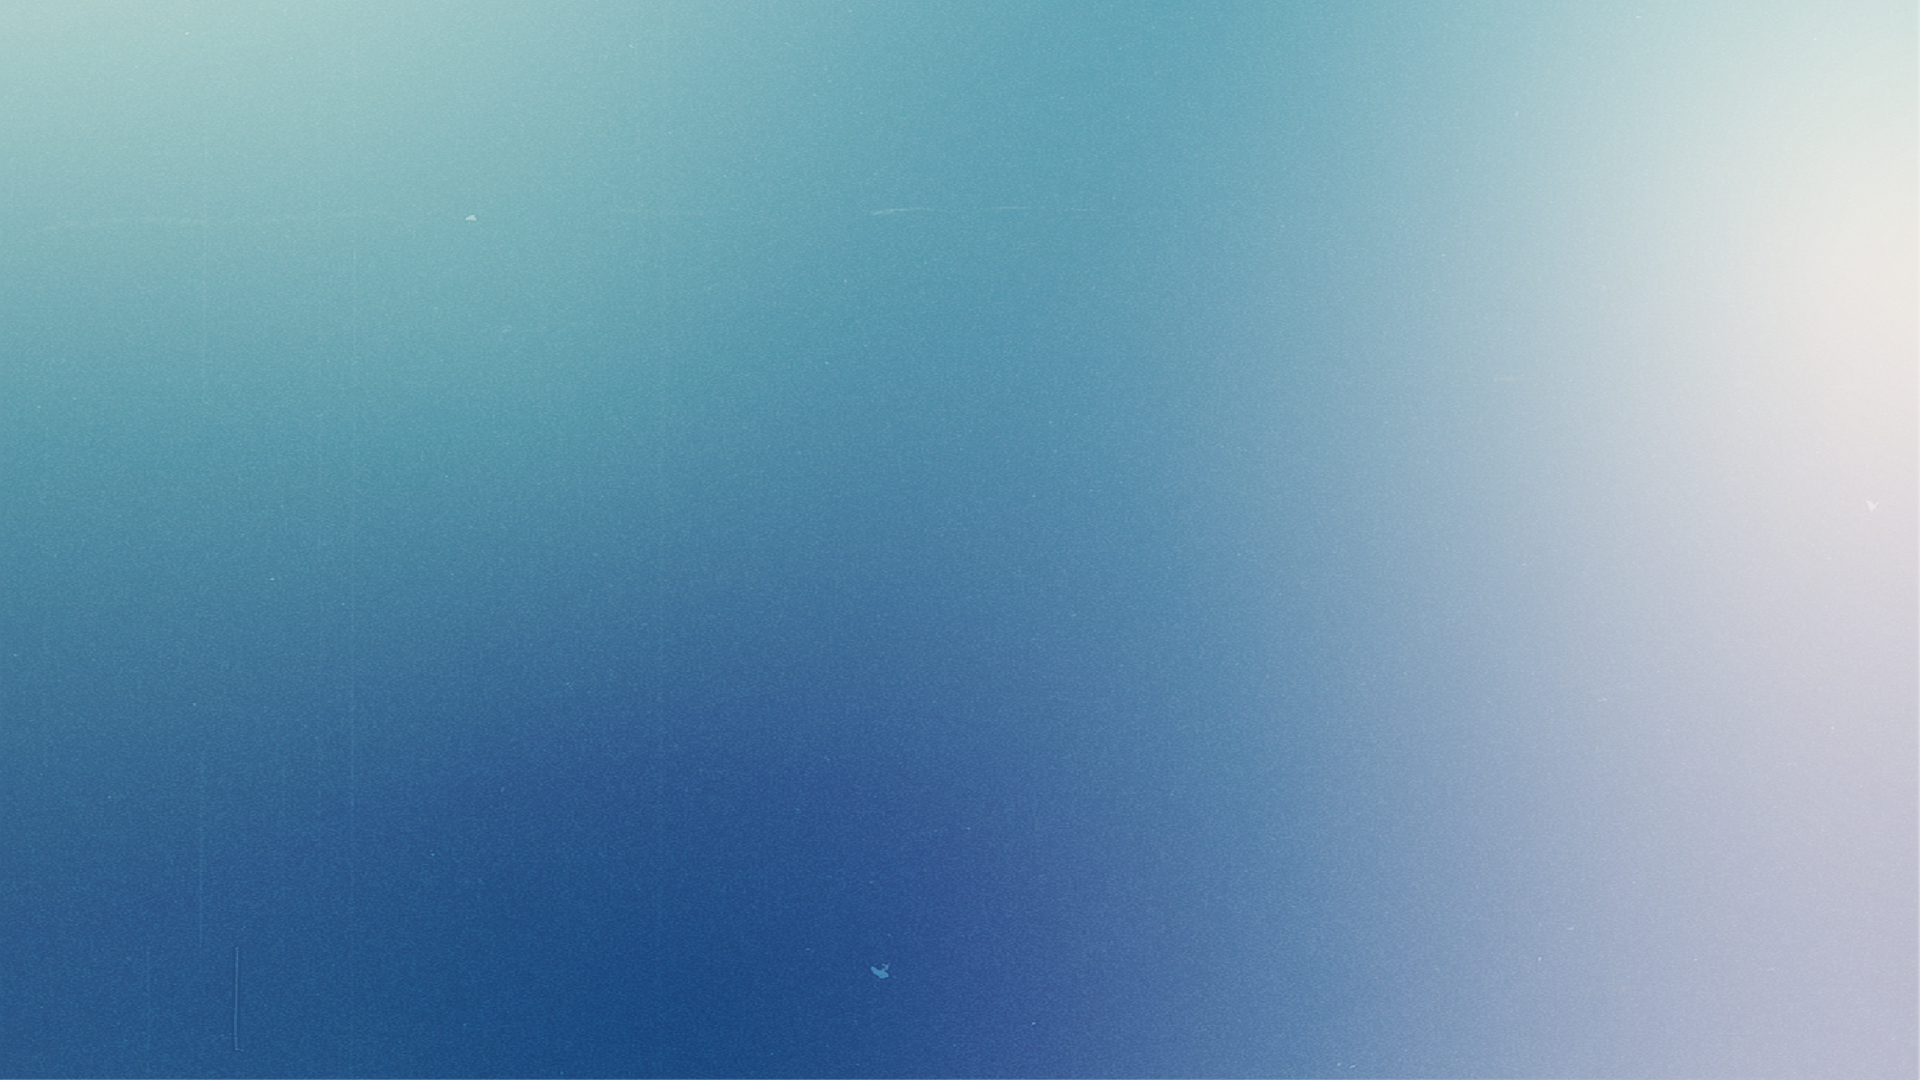
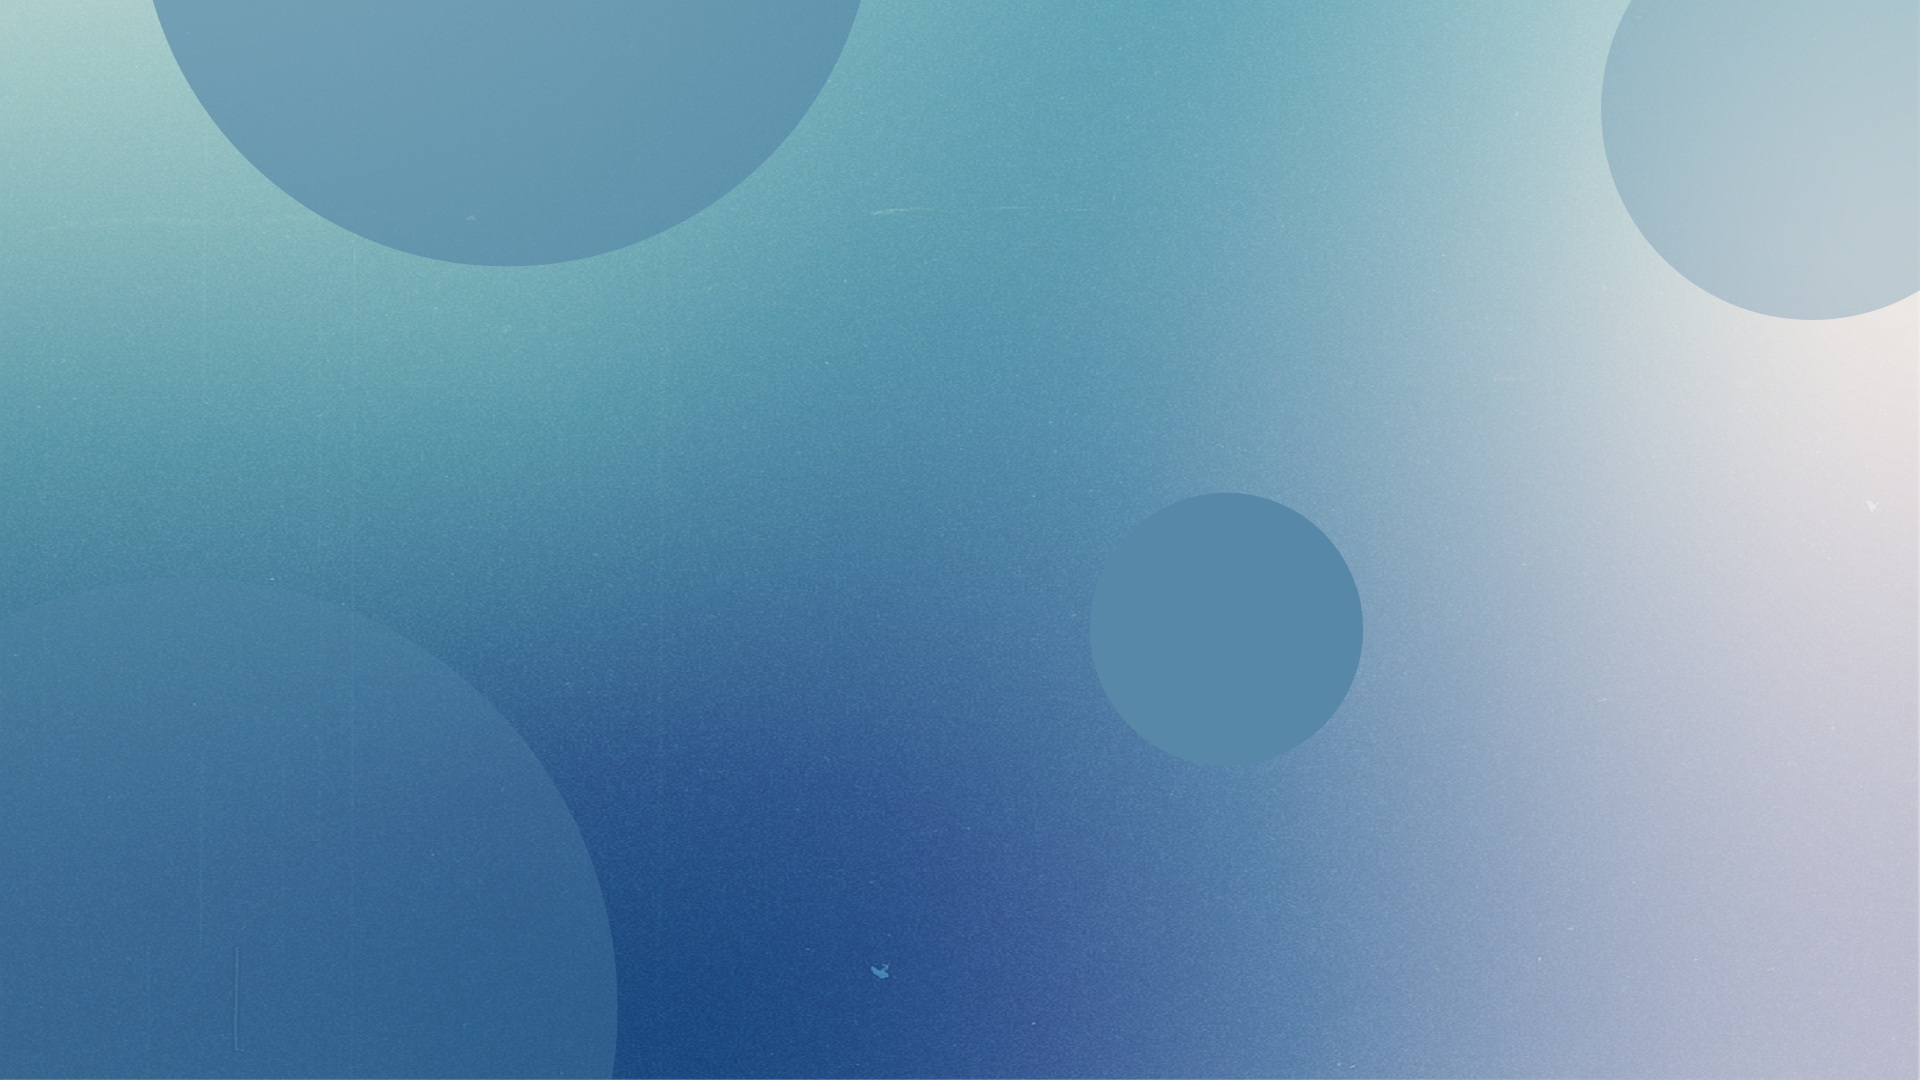
fondii

Changed region(s): [[0.0625, 0.0, 0.4688, 0.2444], [0.8125, 0.0, 1.0, 0.3056], [0.625, 0.4583, 0.7188, 0.6722]]

diff --git a/src/components/PerfilProfesor/PerfilProfesor.css b/src/components/PerfilProfesor/PerfilProfesor.css
@@ -2,7 +2,7 @@
   width: 100%;
   height: auto;
   padding-bottom: 5rem;
-  background-image: url("https://i.redd.it/l6vt1dgs5h921.jpg");
+  background-image: url("./img/fondito2.png");
   background-repeat: no-repeat;
   background-size: cover;
 }
